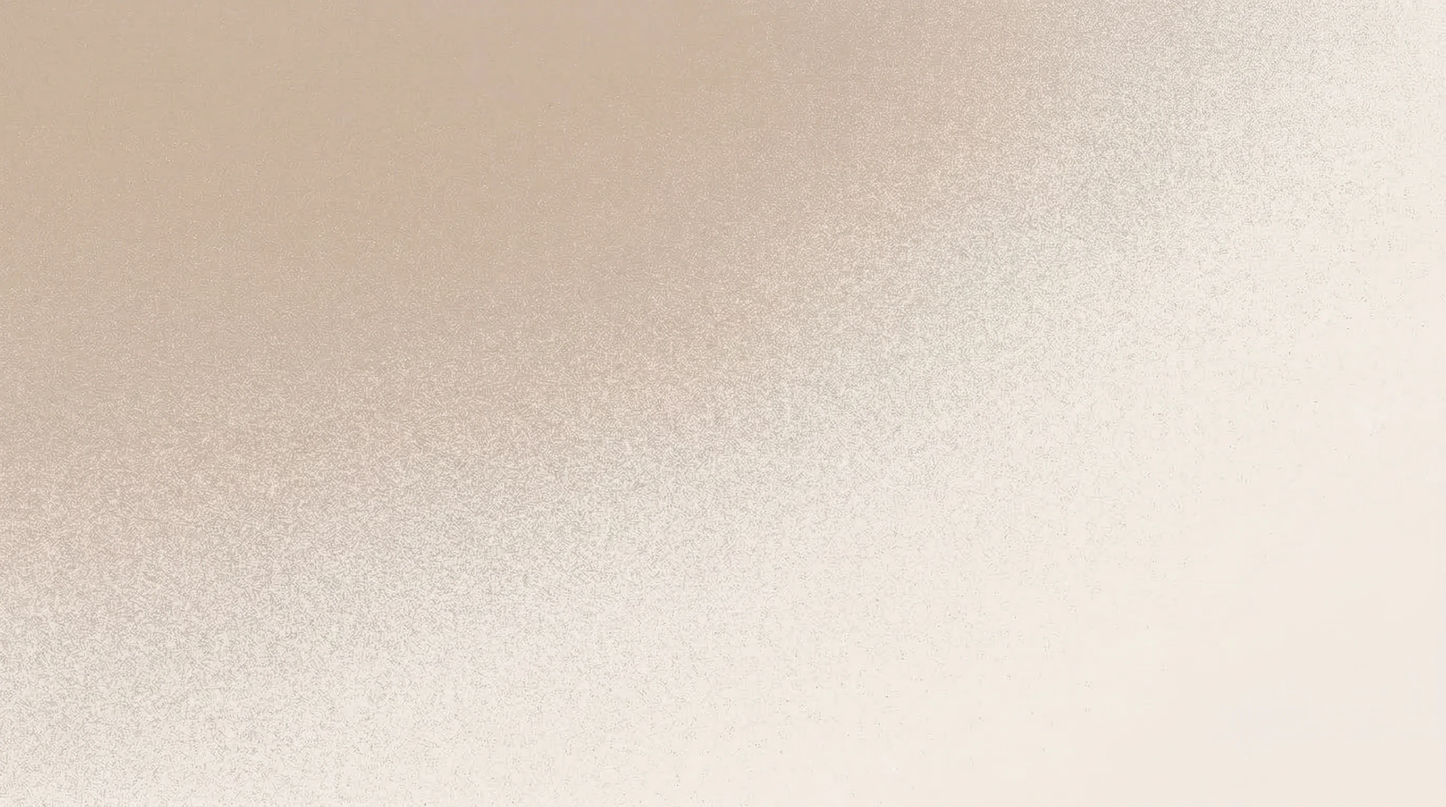
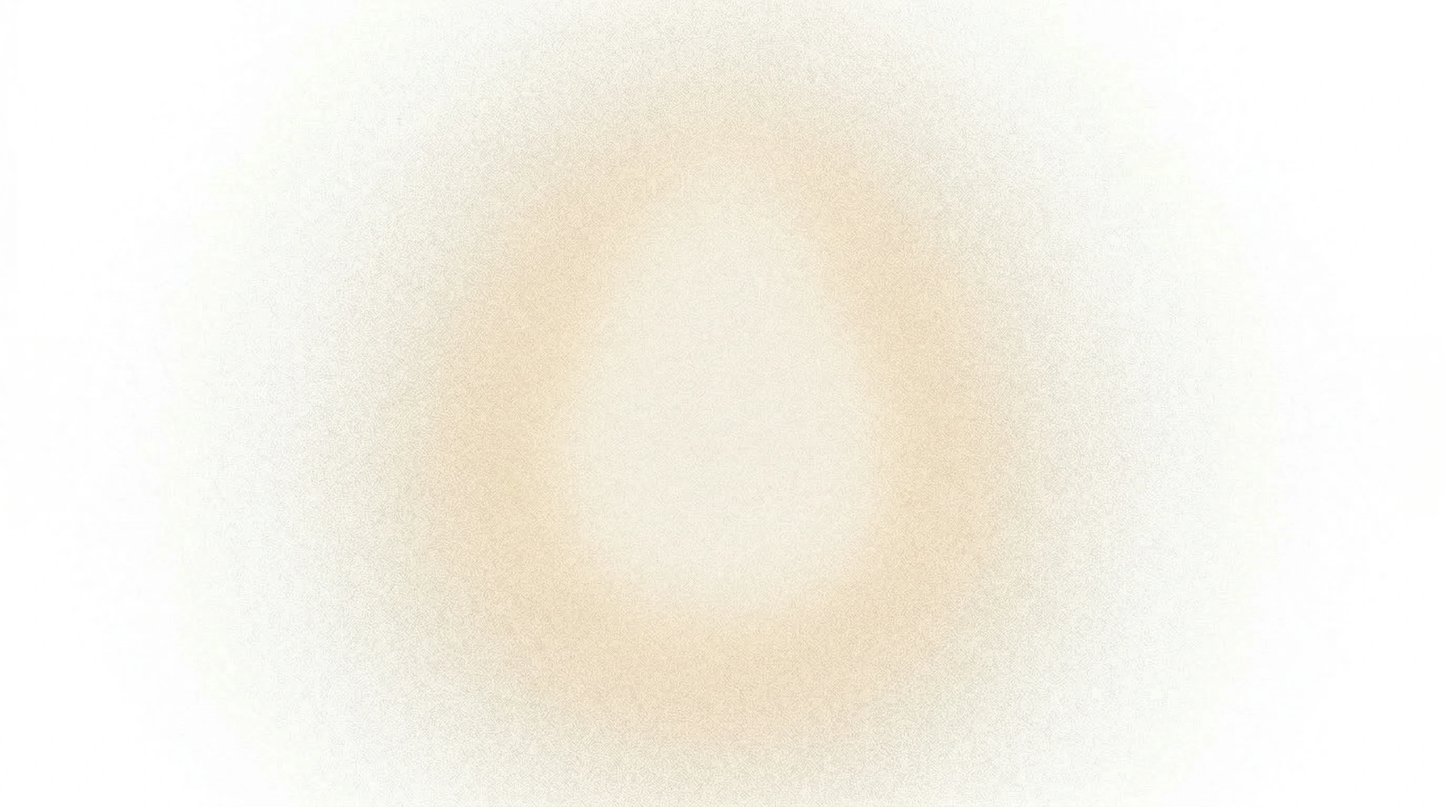
feat: implement interactive service modal with asymmetric collage and storybrand content

diff --git a/src/app/page.tsx b/src/app/page.tsx
@@ -1,10 +1,52 @@
+"use client";
+
+import { useState } from "react";
 import { FadeIn } from "@/components/FadeIn";
 import { CoverflowCarousel } from "@/components/CoverflowCarousel";
-import { CheckCircle2, TrendingUp, Users, HeartHandshake, BarChart3, PlaySquare, ListChecks, MousePointer2, Globe } from "lucide-react";
+import { CheckCircle2, TrendingUp, Users, HeartHandshake, BarChart3, PlaySquare, ListChecks, MousePointer2, Globe, X } from "lucide-react";
+import { motion, AnimatePresence } from "framer-motion";
 import Link from "next/link";
 import Image from "next/image";
 
 export default function Home() {
+  const [activeService, setActiveService] = useState<number | null>(null);
+  const [activeCase, setActiveCase] = useState<number>(0);
+
+  const SUCCESS_CASES = [
+    {
+      id: 1,
+      client: "Toshi",
+      kicker: "Caso de Éxito - E-commerce",
+      image: "/portafolio/toshi.webp",
+      problem: "Toshi tenía un gran producto pero su presencia digital no reflejaba la calidad de su marca. Las ventas estaban estancadas y la confianza del usuario era baja debido a una interfaz obsoleta.",
+      solution: "Rediseñamos toda su identidad digital y lanzamos una landing page optimizada para conversión. Implementamos una estrategia de contenido visual que conectó emocionalmente con su audiencia.",
+      results: "Aumento del 150% en ventas en los primeros 3 meses y una percepción de marca premium reconocida en su nicho.",
+      collage: [
+        { src: "/portafolio/toshi.webp", top: "10%", left: "5%", width: "45%", rotate: -3 },
+        { src: "/portafolio/tadaima.webp", top: "25%", right: "8%", width: "40%", rotate: 6 },
+        { src: "/portafolio/big.webp", bottom: "15%", left: "10%", width: "50%", rotate: -2 },
+        { src: "/portafolio/ceb.webp", top: "45%", right: "15%", width: "35%", rotate: 4 },
+        { src: "/portafolio/dot.webp", bottom: "5%", right: "5%", width: "42%", rotate: -5 },
+      ]
+    },
+    {
+      id: 2,
+      client: "Tadaima",
+      kicker: "Caso de Éxito - Brand Awareness",
+      image: "/portafolio/tadaima.webp",
+      problem: "Tadaima buscaba posicionarse como referente en su sector, pero sus redes sociales se sentían desorganizadas y sin un mensaje claro. Llegaban a mucha gente, pero no a la correcta.",
+      solution: "Establecimos un sistema de gestión de redes basado en autoridad. Creamos una narrativa visual coherente y profesional que destacó sus valores únicos.",
+      results: "Crecimiento orgánico de +50k seguidores calificados y una tasa de interacción que superó el promedio de la industria.",
+      collage: [
+        { src: "/portafolio/tadaima.webp", top: "12%", left: "8%", width: "42%", rotate: 5 },
+        { src: "/portafolio/mariscos.webp", top: "20%", right: "12%", width: "48%", rotate: -4 },
+        { src: "/portafolio/dental.webp", bottom: "18%", left: "5%", width: "44%", rotate: 3 },
+        { src: "/portafolio/marraniza.webp", top: "50%", right: "10%", width: "38%", rotate: -6 },
+        { src: "/portafolio/maxwell.webp", bottom: "10%", right: "15%", width: "40%", rotate: 7 },
+      ]
+    }
+  ];
+
   return (
     <>
       {/* 1. Hero Section */}
@@ -93,6 +135,12 @@ export default function Home() {
                   </div>
                   <h4 className="text-xl font-bold mb-3 text-[#053040] group-hover:text-[#ffffff] transition-colors duration-300">Producción Audiovisual</h4>
                   <p className="text-[#184c56] group-hover:text-[#cdd7e0] text-sm leading-relaxed transition-colors duration-300">Dando voz e imagen a tu marca, transformando ideas en historias que se sienten, se escuchan y emocionan.</p>
+                  <button
+                    onClick={(e) => { e.stopPropagation(); setActiveService(0); }}
+                    className="mt-4 px-6 py-2 bg-transparent border border-[#053040]/30 text-[#053040] group-hover:border-white/50 group-hover:text-white rounded-full hover:bg-white hover:text-[#053040] transition-all font-bold text-sm"
+                  >
+                    Ver más
+                  </button>
                 </div>
               </div>
             </FadeIn>
@@ -115,6 +163,12 @@ export default function Home() {
                   </div>
                   <h4 className="text-xl font-bold mb-3 text-[#053040] group-hover:text-[#ffffff] transition-colors duration-300">Creación de Páginas Web</h4>
                   <p className="text-[#184c56] group-hover:text-[#cdd7e0] text-sm leading-relaxed transition-colors duration-300">Para dar hogar a tu presencia digital, construyendo espacios donde la experiencia del usuario se convierta en confianza.</p>
+                  <button
+                    onClick={(e) => { e.stopPropagation(); setActiveService(1); }}
+                    className="mt-4 px-6 py-2 bg-transparent border border-[#053040]/30 text-[#053040] group-hover:border-white/50 group-hover:text-white rounded-full hover:bg-white hover:text-[#053040] transition-all font-bold text-sm"
+                  >
+                    Ver más
+                  </button>
                 </div>
               </div>
             </FadeIn>
@@ -132,11 +186,17 @@ export default function Home() {
                 />
                 <div className="absolute inset-0 bg-[#053040] opacity-0 group-hover:opacity-50 transition-opacity duration-500 ease-in-out rounded-2xl" />
                 <div className="relative z-10">
-                  <div className="mx-auto w-14 h-14 bg-[#f4efeb] group-hover:bg-[#577c8e] flex items-center justify-center rounded-xl mb-6 transition-all transform group-hover:-translate-y-2 group-hover:rotate-[360deg] duration-300">
+                  <div className="mx-auto w-14 h-14 bg-[#f4efeb] group-hover:bg-[#577c8e] flex items-center justify-center rounded-xl mb-6 transition-all transform group-hover:-translate-y-2 group-hover:scale-110 duration-300">
                     <ListChecks className="text-[#053040] group-hover:text-[#ffffff] transition-colors duration-300" />
                   </div>
                   <h4 className="text-xl font-bold mb-3 text-[#053040] group-hover:text-[#ffffff] transition-colors duration-300">Gestión de Redes Sociales</h4>
                   <p className="text-[#184c56] group-hover:text-[#cdd7e0] text-sm leading-relaxed transition-colors duration-300">Para darle vida al sistema nervioso de la empresa, asegurando que cada dato llegue a su destino con fluidez y precisión.</p>
+                  <button
+                    onClick={(e) => { e.stopPropagation(); setActiveService(2); }}
+                    className="mt-4 px-6 py-2 bg-transparent border border-[#053040]/30 text-[#053040] group-hover:border-white/50 group-hover:text-white rounded-full hover:bg-white hover:text-[#053040] transition-all font-bold text-sm"
+                  >
+                    Ver más
+                  </button>
                 </div>
               </div>
             </FadeIn>
@@ -159,6 +219,12 @@ export default function Home() {
                   </div>
                   <h4 className="text-xl font-bold mb-3 text-[#053040] group-hover:text-[#ffffff] transition-colors duration-300">Publicidad</h4>
                   <p className="text-[#184c56] group-hover:text-[#cdd7e0] text-sm leading-relaxed transition-colors duration-300">Campañas enfocadas en la adquisición de clientes para dar impulso y alcance a tu mensaje y conectar tu propósito con las personas indicadas.</p>
+                  <button
+                    onClick={(e) => { e.stopPropagation(); setActiveService(3); }}
+                    className="mt-4 px-6 py-2 bg-transparent border border-[#053040]/30 text-[#053040] group-hover:border-white/50 group-hover:text-white rounded-full hover:bg-white hover:text-[#053040] transition-all font-bold text-sm"
+                  >
+                    Ver más
+                  </button>
                 </div>
               </div>
             </FadeIn>
@@ -336,6 +402,146 @@ export default function Home() {
           </div>
         </FadeIn>
       </section>
+      {/* Modal Interactivo de Servicios */}
+      <AnimatePresence>
+        {activeService !== null && (
+          <div className="fixed inset-0 z-[100] flex items-center justify-center p-4">
+            {/* Backdrop */}
+            <motion.div
+              initial={{ opacity: 0 }}
+              animate={{ opacity: 1 }}
+              exit={{ opacity: 0 }}
+              onClick={() => setActiveService(null)}
+              className="absolute inset-0 bg-black/80 backdrop-blur-md"
+            />
+
+            {/* Modal Container */}
+            <motion.div
+              initial={{ opacity: 0, scale: 0.9, y: 20 }}
+              animate={{ opacity: 1, scale: 1, y: 0 }}
+              exit={{ opacity: 0, scale: 0.9, y: 20 }}
+              transition={{ type: "spring", damping: 25, stiffness: 300 }}
+              className="relative w-full max-w-6xl h-[85vh] bg-[#053040] rounded-[2.5rem] overflow-hidden shadow-2xl z-10 border border-white/10"
+              style={{
+                backgroundImage: "url('/fondos/modal-bg-1.webp')",
+                backgroundSize: 'cover',
+                backgroundPosition: 'center'
+              }}
+            >
+              {/* Close Button */}
+              <button
+                onClick={() => setActiveService(null)}
+                className="absolute top-6 right-6 p-3 bg-white/10 hover:bg-white/20 text-white rounded-full transition-colors z-50 backdrop-blur-md border border-white/20"
+              >
+                <X size={24} />
+              </button>
+
+              <div className="grid grid-cols-1 lg:grid-cols-2 h-full">
+                {/* Columna Izquierda: Collage Asimétrico */}
+                <div className="relative h-[40vh] lg:h-full bg-gradient-to-br from-black/40 to-transparent p-8 overflow-hidden">
+                  <div className="absolute inset-0 flex items-center justify-center">
+                    {/* Background decorative text/element */}
+                    <span className="text-[12rem] font-black text-white/5 select-none pointer-events-none">RESULTADOS</span>
+                  </div>
+
+                  {SUCCESS_CASES[activeCase % SUCCESS_CASES.length].collage.map((img, i) => (
+                    <motion.div
+                      key={i}
+                      style={{
+                        position: 'absolute',
+                        top: img.top,
+                        left: img.left,
+                        right: img.right,
+                        bottom: img.bottom,
+                        width: img.width,
+                        rotate: img.rotate,
+                        zIndex: 10 + i
+                      }}
+                      animate={{ y: [0, -15, 0] }}
+                      transition={{
+                        duration: 4 + i,
+                        repeat: Infinity,
+                        ease: "easeInOut",
+                        delay: i * 0.5
+                      }}
+                      className="group cursor-pointer rounded-2xl overflow-hidden shadow-2xl border-4 border-white/10"
+                      whileHover={{ scale: 1.1, zIndex: 50, rotate: 0 }}
+                      onClick={() => setActiveCase(i % SUCCESS_CASES.length)}
+                    >
+                      <div className="relative aspect-[4/3] w-full">
+                        <img
+                          src={img.src}
+                          alt="Caso de éxito"
+                          className="w-full h-full object-cover transition-transform duration-500 group-hover:scale-110"
+                        />
+                        <div className="absolute inset-0 bg-[#053040]/60 opacity-0 group-hover:opacity-100 transition-opacity duration-300 flex items-center justify-center">
+                          <span className="text-white font-bold text-sm tracking-widest uppercase">Más info.</span>
+                        </div>
+                      </div>
+                    </motion.div>
+                  ))}
+                </div>
+
+                {/* Columna Derecha: StoryBrand Text */}
+                <div className="relative h-full flex flex-col justify-center p-8 lg:p-16 bg-white/95 backdrop-blur-xl">
+                  <AnimatePresence mode="wait">
+                    <motion.div
+                      key={activeCase}
+                      initial={{ opacity: 0, x: 20 }}
+                      animate={{ opacity: 1, x: 0 }}
+                      exit={{ opacity: 0, x: -20 }}
+                      transition={{ duration: 0.4 }}
+                      className="max-w-md"
+                    >
+                      <span className="inline-block px-4 py-1.5 mb-6 text-xs font-black tracking-widest uppercase bg-[#577c8e]/10 text-[#577c8e] rounded-full">
+                        {SUCCESS_CASES[activeCase % SUCCESS_CASES.length].kicker}
+                      </span>
+                      <h3 className="text-4xl lg:text-5xl font-black text-[#053040] mb-8 leading-tight">
+                        {SUCCESS_CASES[activeCase % SUCCESS_CASES.length].client}
+                      </h3>
+
+                      <div className="space-y-8">
+                        <div>
+                          <h4 className="flex items-center gap-2 text-[#577c8e] font-bold uppercase tracking-widest text-xs mb-3">
+                            <span className="w-8 h-[2px] bg-[#577c8e]"></span>
+                            El Problema
+                          </h4>
+                          <p className="text-[#184c56] text-lg leading-relaxed font-medium italic">
+                            "{SUCCESS_CASES[activeCase % SUCCESS_CASES.length].problem}"
+                          </p>
+                        </div>
+
+                        <div>
+                          <h4 className="flex items-center gap-2 text-[#053040] font-bold uppercase tracking-widest text-xs mb-3">
+                            <span className="w-8 h-[2px] bg-[#053040]"></span>
+                            La Solución y Resultados
+                          </h4>
+                          <p className="text-[#184c56] text-lg leading-relaxed">
+                            {SUCCESS_CASES[activeCase % SUCCESS_CASES.length].solution}
+                          </p>
+                          <div className="mt-6 p-6 bg-[#053040] rounded-2xl shadow-xl shadow-[#053040]/10">
+                            <p className="text-white font-black text-xl leading-tight">
+                              {SUCCESS_CASES[activeCase % SUCCESS_CASES.length].results}
+                            </p>
+                          </div>
+                        </div>
+                      </div>
+
+                      <div className="mt-12 flex items-center gap-4">
+                        <a href="https://wa.link/58p1sa" target="_blank" rel="noopener noreferrer" className="flex-1">
+                          <button className="w-full py-4 bg-[#053040] text-white rounded-xl font-black text-lg shadow-xl hover:scale-[1.02] active:scale-[0.98] transition-all">
+                            Quiero resultados así
+                          </button>
+                        </a>
+                      </div>
+                    </motion.div>
+                  </AnimatePresence>
+                </div>
+              </div>
+            </motion.div>
+          </div>
+        )}
+      </AnimatePresence>
     </>
   );
 }
